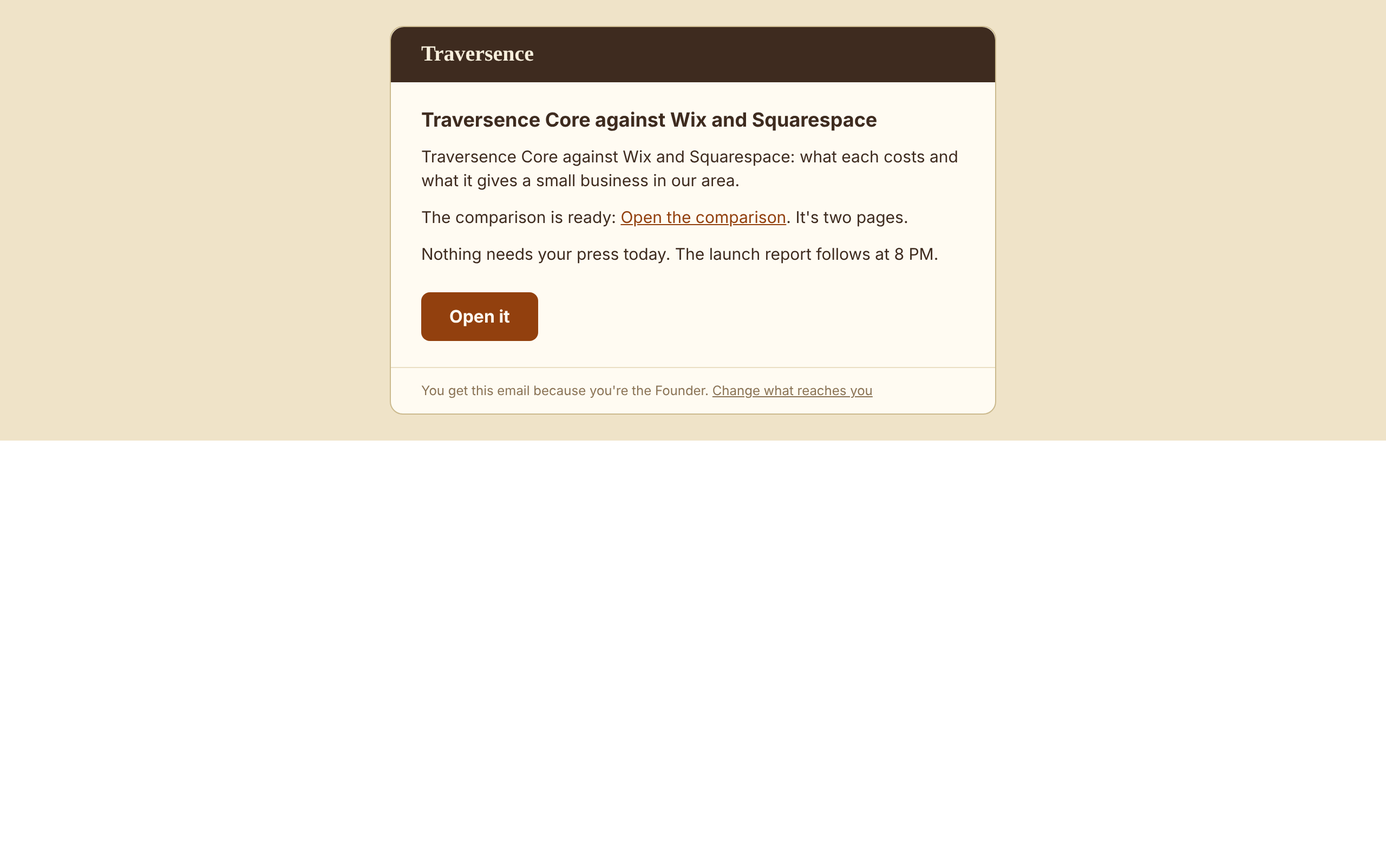
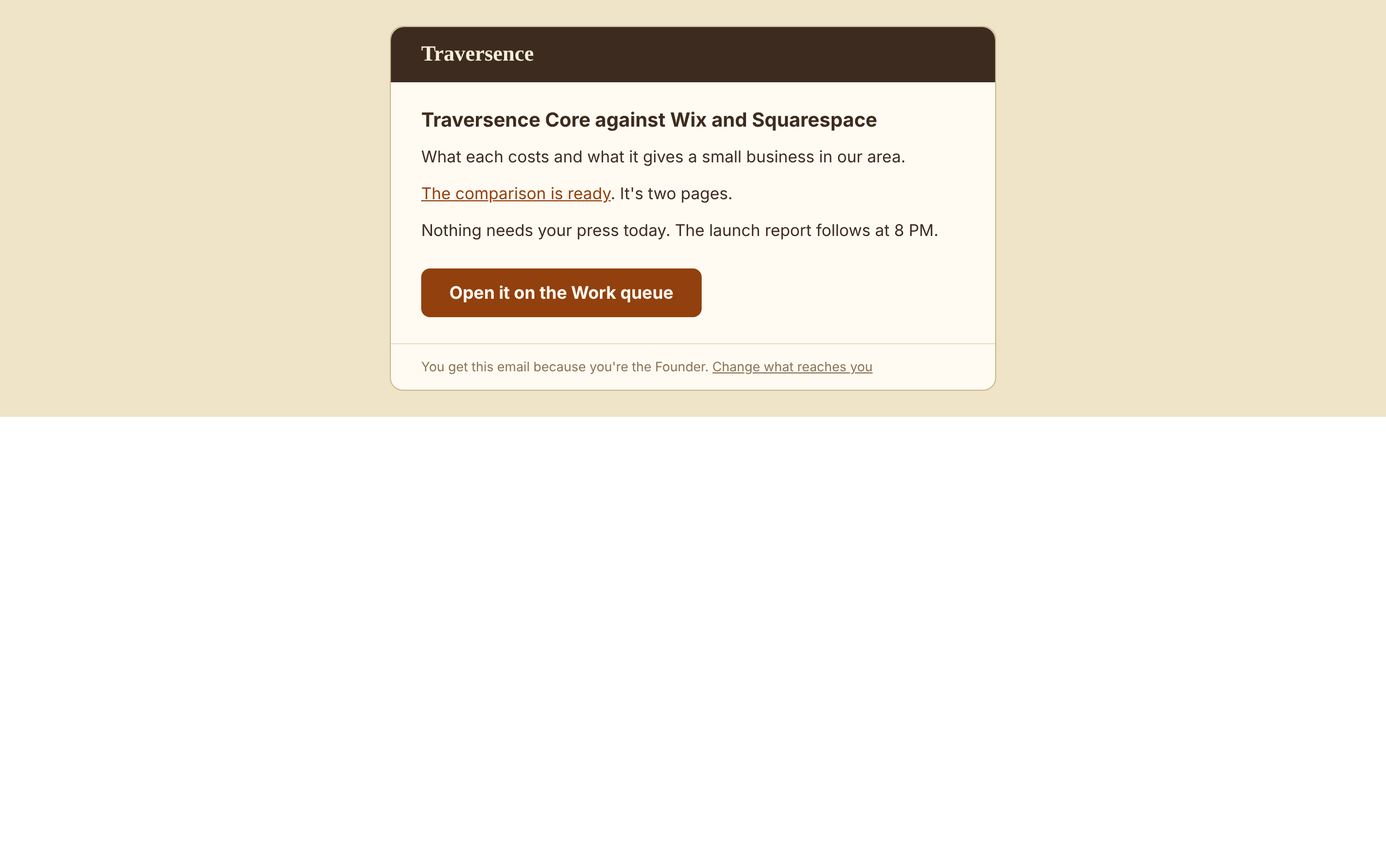
founder-link: the Design reviewer's five fixes (no title repeated, the phrase is the link, the button names its place, one footer)
Claude-Session: https://claude.ai/code/session_01CXLi5inRHU7bxiyPoYoi4v

Changed region(s): [[0.0, 0.1562, 1.0, 0.5312]]

diff --git a/handoffs/founder-link/screens/email.html b/handoffs/founder-link/screens/email.html
@@ -1,1 +1,1 @@
-<!doctype html><meta name=viewport content="width=device-width,initial-scale=1"><body style="margin:0"><table role="presentation" width="100%" cellpadding="0" cellspacing="0" bgcolor="#EFE3C8" style="background:#EFE3C8"><tr><td align="center" style="padding:24px 12px"><table role="presentation" width="100%" cellpadding="0" cellspacing="0" bgcolor="#FFFBF2" style="width:100%;max-width:560px;background:#FFFBF2;border:1px solid #CBB98D;border-radius:12px"><tr><td bgcolor="#3E2B1F" style="padding:14px 28px;border-radius:12px 12px 0 0;font-family:Georgia,serif;font-size:20px;font-weight:700;color:#F7EFDC">Traversence</td></tr><tr><td style="padding:24px 28px 10px;font-family:Segoe UI,Roboto,Helvetica,Arial,sans-serif;font-size:18px;font-weight:700;line-height:24px;color:#3E2B1F">Traversence Core against Wix and Squarespace</td></tr><tr><td style="padding:0 28px 6px"><p style="margin:0 0 12px;font-family:Segoe UI,Roboto,Helvetica,Arial,sans-serif;font-size:15px;line-height:22px;color:#3E2B1F">Traversence Core against Wix and Squarespace: what each costs and what it gives a small business in our area.</p><p style="margin:0 0 12px;font-family:Segoe UI,Roboto,Helvetica,Arial,sans-serif;font-size:15px;line-height:22px;color:#3E2B1F">The comparison is ready: <a href="https://github.com/degraffics/traversence/blob/main/research/compare/compare.pdf" style="color:#92400E;text-decoration:underline">Open the comparison</a>. It&#039;s two pages.</p><p style="margin:0 0 12px;font-family:Segoe UI,Roboto,Helvetica,Arial,sans-serif;font-size:15px;line-height:22px;color:#3E2B1F">Nothing needs your press today. The launch report follows at 8 PM.</p></td></tr><tr><td style="padding:6px 28px 24px"><table role="presentation" cellpadding="0" cellspacing="0"><tr><td bgcolor="#92400E" style="border-radius:8px;padding:12px 26px"><a href="https://traversence.com/admin/config/control?tab=development#wq-212" style="display:inline-block;font-family:Segoe UI,Roboto,Helvetica,Arial,sans-serif;font-size:16px;font-weight:700;color:#FFFBF2;text-decoration:none"><span style="color:#FFFBF2;text-decoration:none">Open it</span></a></td></tr></table></td></tr><tr><td style="padding:12px 28px;border-top:1px solid #EADFC4;font-family:Segoe UI,Roboto,Helvetica,Arial,sans-serif;font-size:12px;line-height:18px;color:#8A7355">You get this email because you're the Founder. <a href="https://traversence.com/admin/dashboard/comms" style="color:#8A7355;text-decoration:underline">Change what reaches you</a></td></tr></table></td></tr></table>
+<!doctype html><meta name=viewport content="width=device-width,initial-scale=1"><body style="margin:0"><table role="presentation" width="100%" cellpadding="0" cellspacing="0" bgcolor="#EFE3C8" style="background:#EFE3C8"><tr><td align="center" style="padding:24px 12px"><table role="presentation" width="100%" cellpadding="0" cellspacing="0" bgcolor="#FFFBF2" style="width:100%;max-width:560px;background:#FFFBF2;border:1px solid #CBB98D;border-radius:12px"><tr><td bgcolor="#3E2B1F" style="padding:14px 28px;border-radius:12px 12px 0 0;font-family:Georgia,serif;font-size:20px;font-weight:700;color:#F7EFDC">Traversence</td></tr><tr><td style="padding:24px 28px 10px;font-family:Segoe UI,Roboto,Helvetica,Arial,sans-serif;font-size:18px;font-weight:700;line-height:24px;color:#3E2B1F">Traversence Core against Wix and Squarespace</td></tr><tr><td style="padding:0 28px 6px"><p style="margin:0 0 12px;font-family:Segoe UI,Roboto,Helvetica,Arial,sans-serif;font-size:15px;line-height:22px;color:#3E2B1F">What each costs and what it gives a small business in our area.</p><p style="margin:0 0 12px;font-family:Segoe UI,Roboto,Helvetica,Arial,sans-serif;font-size:15px;line-height:22px;color:#3E2B1F"><a href="https://github.com/degraffics/traversence/blob/main/research/compare/compare.pdf" style="color:#92400E;text-decoration:underline">The comparison is ready</a>. It&#039;s two pages.</p><p style="margin:0 0 12px;font-family:Segoe UI,Roboto,Helvetica,Arial,sans-serif;font-size:15px;line-height:22px;color:#3E2B1F">Nothing needs your press today. The launch report follows at 8 PM.</p></td></tr><tr><td style="padding:6px 28px 24px"><table role="presentation" cellpadding="0" cellspacing="0"><tr><td bgcolor="#92400E" style="border-radius:8px;padding:12px 26px"><a href="https://traversence.com/admin/config/control?tab=development#wq-212" style="display:inline-block;font-family:Segoe UI,Roboto,Helvetica,Arial,sans-serif;font-size:16px;font-weight:700;color:#FFFBF2;text-decoration:none"><span style="color:#FFFBF2;text-decoration:none">Open it on the Work queue</span></a></td></tr></table></td></tr><tr><td style="padding:12px 28px;border-top:1px solid #EADFC4;font-family:Segoe UI,Roboto,Helvetica,Arial,sans-serif;font-size:12px;line-height:18px;color:#8A7355">You get this email because you&#039;re the Founder. <a href="https://traversence.com/admin/dashboard/comms" style="color:#8A7355;text-decoration:underline">Change what reaches you</a></td></tr></table></td></tr></table>

diff --git a/handoffs/founder-link/build/app/lib/FounderMail.php b/handoffs/founder-link/build/app/lib/FounderMail.php
@@ -118,8 +118,9 @@ final class FounderMail
             if (($x[1][1] ?? -1) >= 0) { $name = trim($x[1][0]); $url = $x[2][0]; }
             else { $all = rtrim($all, '.,;:!?'); $url = $all; $name = self::nameOf($url); }
             $before = $pos > $at ? substr($body, $at, $pos - $at) : '';
-            // a bare address after "Approve it on the Work queue: " takes that phrase as its name (the words already name it)
-            if (($x[1][1] ?? -1) < 0 && preg_match('/(^|[\n.!?]\s*)([^\n:.!?]{3,80}):\s*$/u', $before, $ph, PREG_OFFSET_CAPTURE) === 1) {
+            // a phrase before a link ("Approve it on the Work queue: …", "The comparison is ready: […](…)") is the link itself,
+            // so a line says one thing and calls once (the Design reviewer, 2026-11-27)
+            if (preg_match('/(^|[\n.!?]\s*)([^\n:.!?]{3,80}):\s*$/u', $before, $ph, PREG_OFFSET_CAPTURE) === 1) {
                 $name = trim($ph[2][0]); $before = substr($before, 0, $ph[2][1]);
             }
             if ($before !== '') $out[] = ['t', $before];
@@ -148,9 +149,31 @@ final class FounderMail
         return $t;
     }
 
-    /** A push's one plain sentence: links as their names, no address and no `code`, at most 140 characters. */
-    public static function pushLine(string $body): string
+    /** The body without a first line that only repeats the title ("<title>: what each costs…" → "What each costs…"). */
+    public static function untitled(string $body, string $title): string
     {
+        $title = trim($title); $b = ltrim($body);
+        if ($title === '' || mb_stripos($b, $title) !== 0) return $body;
+        // only a title that ends where the words pause (":", ".", a dash or the line's end), never one that starts a sentence
+        if (preg_match('/^\s*([:.\-]|\x{2014}|\n|$)/u', mb_substr($b, mb_strlen($title))) !== 1) return $body;
+        $rest = ltrim(mb_substr($b, mb_strlen($title)), " \t:.,;-");
+        if ($rest === '' || $rest[0] === "\n") return ltrim($rest);
+        return mb_strtoupper(mb_substr($rest, 0, 1)) . mb_substr($rest, 1);
+    }
+
+    /** Where Open it goes, by name: "Open it on the Work queue", "Open it on GitHub", … (the Design reviewer, 2026-11-27:
+     *  the button names its place). */
+    public static function openLabel(string $link): string
+    {
+        if (str_contains($link, '/admin/config/control?tab=development')) return 'Open it on the Work queue';
+        return self::nameOf(str_starts_with($link, '/') ? 'https://traversence.com' . $link : $link);
+    }
+
+    /** A push's one plain sentence: links as their names, no address and no `code`, at most 140 characters, and never the
+     *  title again. */
+    public static function pushLine(string $body, string $title = ''): string
+    {
+        $body = self::untitled($body, $title);
         $t = '';
         foreach (self::pieces($body) as $p) $t .= $p[1];   // a link is its name
         $t = (string) preg_replace('/`[^`\n]*`/u', '', $t);
@@ -176,10 +199,17 @@ final class FounderMail
         return $out;
     }
 
-    /** Notify's email for a founder.* kind: [text, html]. The text is Notify's own with the body's links named. */
-    public static function emailParts(string $title, string $body, string $link, string $text): array
+    /** Notify's email for a founder.* kind: [text, html]. Its title once, the body without it, Open it naming its place,
+     *  and the Founder's footer in both parts (the Design reviewer, 2026-11-27). */
+    public const FOOTER = 'You get this email because you\'re the Founder.';
+    public const CHOICES = 'https://traversence.com/admin/dashboard/comms';
+
+    public static function emailParts(string $title, string $body, string $link, string $text = ''): array
     {
-        if ($body !== '') $text = str_replace($body, self::textOf($body), $text);
+        $body = self::untitled($body, $title);
+        $open = self::openLabel($link);
+        $text = trim($title) . "\n\n" . (trim($body) !== '' ? trim(self::textOf($body)) . "\n\n" : '') . $open . ': ' . $link . "\n\n"
+              . "-- \n" . self::FOOTER . ' Change what reaches you: ' . self::CHOICES . "\nTraversence";
         $e = fn ($s) => htmlspecialchars((string) $s, ENT_QUOTES);
         $font = 'font-family:Segoe UI,Roboto,Helvetica,Arial,sans-serif;';
         $html = '<table role="presentation" width="100%" cellpadding="0" cellspacing="0" bgcolor="#EFE3C8" style="background:#EFE3C8"><tr><td align="center" style="padding:24px 12px">'
@@ -188,9 +218,9 @@ final class FounderMail
               . '<tr><td style="padding:24px 28px 10px;' . $font . 'font-size:18px;font-weight:700;line-height:24px;color:#3E2B1F">' . $e($title) . '</td></tr>'
               . '<tr><td style="padding:0 28px 6px">' . self::htmlOf($body, $font) . '</td></tr>'
               . '<tr><td style="padding:6px 28px 24px"><table role="presentation" cellpadding="0" cellspacing="0"><tr><td bgcolor="#92400E" style="border-radius:8px;padding:12px 26px">'
-              . '<a href="' . $e($link) . '" style="display:inline-block;' . $font . 'font-size:16px;font-weight:700;color:#FFFBF2;text-decoration:none"><span style="color:#FFFBF2;text-decoration:none">Open it</span></a></td></tr></table></td></tr>'
-              . '<tr><td style="padding:12px 28px;border-top:1px solid #EADFC4;' . $font . 'font-size:12px;line-height:18px;color:#8A7355">You get this email because you\'re the Founder. '
-              . '<a href="https://traversence.com/admin/dashboard/comms" style="color:#8A7355;text-decoration:underline">Change what reaches you</a></td></tr>'
+              . '<a href="' . $e($link) . '" style="display:inline-block;' . $font . 'font-size:16px;font-weight:700;color:#FFFBF2;text-decoration:none"><span style="color:#FFFBF2;text-decoration:none">' . $e($open) . '</span></a></td></tr></table></td></tr>'
+              . '<tr><td style="padding:12px 28px;border-top:1px solid #EADFC4;' . $font . 'font-size:12px;line-height:18px;color:#8A7355">' . $e(self::FOOTER) . ' '
+              . '<a href="' . self::CHOICES . '" style="color:#8A7355;text-decoration:underline">Change what reaches you</a></td></tr>'
               . '</table></td></tr></table>';
         return [$text, $html];
     }
@@ -200,11 +230,11 @@ final class FounderMail
     {
         $e = fn ($s) => htmlspecialchars((string) $s, ENT_QUOTES);
         $html = '';
-        foreach (preg_split('/\n{2,}/', trim((string) $m['body'])) as $para) if (trim($para) !== '') {
+        foreach (preg_split('/\n{2,}/', trim(self::untitled((string) $m['body'], (string) ($m['title'] ?? '')))) as $para) if (trim($para) !== '') {
             $h = ''; foreach (self::pieces($para) as $p) $h .= $p[0] === 't' ? (string) preg_replace('/`([^`\n]*)`/u', '<code>$1</code>', $e($p[1])) : ($p[2] !== '' ? '<a href="' . $e($p[2]) . '">' . $e($p[1]) . '</a>' : $e($p[1]));
             $html .= '<p>' . nl2br($h, false) . '</p>';
         }
-        if ((string) ($m['url'] ?? '') !== '') $html .= '<p class="tv-msg-acts"><a class="tv-btn" href="' . $e($m['url']) . '">Open it</a></p>';
+        if ((string) ($m['url'] ?? '') !== '') $html .= '<p class="tv-msg-acts"><a class="tv-btn" href="' . $e($m['url']) . '">' . $e(self::openLabel((string) $m['url'])) . '</a></p>';
         return ['html' => $html, 'state' => ''];
     }
 

diff --git a/tools/notify-founder-tests/founder.php b/tools/notify-founder-tests/founder.php
@@ -77,16 +77,20 @@ $t('our own hosts pass: traversence.com and staging.trvgo.us', FounderMail::link
 // the words, clean and on brand (Jason, 2026-11-27: "The push is clutter with code vs a clean on brand message")
 $wb = "The comparison is ready: [Open the comparison](https://github.com/degraffics/traversence/blob/main/research/x.pdf). Run `gauges.py --write` first.\n\nApprove it on the Work queue: https://traversence.com/admin/config/control?tab=development\nOr https://evil.example/x.";
 $pl = FounderMail::pushLine($wb);
-$t('a push: one plain sentence, its links by their names, no address and no code', $pl === 'The comparison is ready: Open the comparison.', $pl);
+$t('a push: one plain sentence, a phrase before a link is the link, no address and no code', $pl === 'The comparison is ready.', $pl);
+$t('… never the title again: the body after it, its first letter capital (Design, 2026-11-27)', FounderMail::pushLine("Traversence Core against Wix and Squarespace: what each costs.\n\nMore.", 'Traversence Core against Wix and Squarespace') === 'What each costs.' && FounderMail::pushLine('Other words.', 'Title') === 'Other words.' && FounderMail::pushLine('The comparison is ready. More.', 'The comparison') === 'The comparison is ready.');
 $pl2 = FounderMail::pushLine('See https://traversence.com/admin/x and `rm -rf` now, then ' . str_repeat('more words ', 30));
 $t('… an address and code in it: stripped; at most 140 characters', !preg_match('#https?://|`|rm -rf#', $pl2) && mb_strlen($pl2) <= 140, $pl2);
 [$tx, $hx] = FounderMail::emailParts('The comparison', $wb, 'https://traversence.com/admin/config/control?tab=development#wq-4', "The comparison\n\n" . $wb . "\n\nOpen it: https://traversence.com/admin/config/control?tab=development#wq-4\n\n-- \nfooter");
-$t('an email\'s bare link is named: "Approve it on the Work queue" as an anchor, never the address as its words', str_contains($hx, '>Approve it on the Work queue</a>') && !preg_match('#>https?://#', $hx) && str_contains($hx, '>Open the comparison</a>'), $hx);
-$t('… Open it is a named button to the message\'s place', str_contains($hx, 'href="https://traversence.com/admin/config/control?tab=development#wq-4"') && str_contains($hx, '>Open it</span></a>'));
+$t('an email\'s links are named: the phrase before each is the link ("The comparison is ready", "Approve it on the Work queue"), never an address as words', str_contains($hx, '>Approve it on the Work queue</a>') && str_contains($hx, '>The comparison is ready</a>. Run') && !str_contains($hx, 'Open the comparison') && !preg_match('#>https?://#', $hx), $hx);
+$t('… a bare address with no phrase: named by where it goes', FounderMail::nameOf('https://github.com/degraffics/x') === 'Open it on GitHub' && str_contains(FounderMail::htmlOf('See this. https://staging.trvgo.us/admin/x'), '>Open it on staging</a>'));
+$t('… its button names its place: "Open it on the Work queue"', str_contains($hx, 'href="https://traversence.com/admin/config/control?tab=development#wq-4"') && str_contains($hx, '>Open it on the Work queue</span></a>') && FounderMail::openLabel('https://github.com/degraffics/t/x.pdf') === 'Open it on GitHub' && FounderMail::openLabel('/admin/config/releases') === 'Open it on Traversence');
 $t('… a link not ours keeps only its name, never an anchor', !str_contains($hx, 'evil.example/x') && !str_contains($tx, 'evil.example/x') && str_contains($hx, 'evil.example'));
-$t('… the text part keeps each address after its name, for mail apps without HTML; code shown as code in HTML', str_contains($tx, 'Open the comparison: https://github.com/degraffics/') && str_contains($tx, 'Approve it on the Work queue: https://traversence.com/') && str_contains($hx, '<code>gauges.py --write</code>') && str_ends_with($tx, "footer"), $tx);
+$t('… the text part: each address after its phrase, one colon; Open it on the Work queue; the Founder\'s footer as in HTML; code as code in HTML', str_contains($tx, 'The comparison is ready: https://github.com/degraffics/') && !str_contains($tx, 'ready: Open') && str_contains($tx, 'Approve it on the Work queue: https://traversence.com/') && str_contains($tx, "Open it on the Work queue: https://traversence.com/admin/config/control?tab=development#wq-4") && str_contains($tx, "You get this email because you're the Founder. Change what reaches you: https://traversence.com/admin/dashboard/comms") && !str_contains($tx, 'your choices for') && str_contains($hx, "You get this email because you&#039;re the Founder.") && str_contains($hx, '<code>gauges.py --write</code>'), $tx);
+[$tx2, $hx2] = FounderMail::emailParts('Traversence Core', "Traversence Core: what each costs.\n\nMore.", '/x');
+$t('… the email\'s first paragraph never repeats its heading', str_contains($hx2, '>What each costs.</p>') && substr_count($hx2, 'Traversence Core') === 1 && str_contains($tx2, "Traversence Core\n\nWhat each costs."), $hx2);
 $pb = FounderMail::pulseBody($pdo, ['body' => $wb, 'url' => '/admin/config/control?tab=development#wq-4'], 1);
-$t('Pulse: the same named links, and Open it', str_contains($pb['html'], '>Open the comparison</a>') && str_contains($pb['html'], '>Approve it on the Work queue</a>') && str_contains($pb['html'], 'class="tv-btn" href="/admin/config/control?tab=development#wq-4">Open it</a>'), $pb);
+$t('Pulse: the same named links, and its button naming its place', str_contains($pb['html'], '>The comparison is ready</a>') && str_contains($pb['html'], '>Approve it on the Work queue</a>') && str_contains($pb['html'], 'class="tv-btn" href="/admin/config/control?tab=development#wq-4">Open it on the Work queue</a>'), $pb);
 $nv = (string) file_get_contents($src . '/lib/Notify.php');
 $t('the dispatcher hands only founder.* kinds to FounderMail: push line, email parts, Pulse body', substr_count($nv, "str_starts_with((string) \$m['kind'], 'founder.')") === 2 && str_contains($nv, "'founder.message' => ['FounderMail.php', 'FounderMail', 'pulseBody']"));
 // a Tier 3 decision

diff --git a/tools/notify-founder-tests/notify-diff.php b/tools/notify-founder-tests/notify-diff.php
@@ -11,7 +11,7 @@ if ($live === '' || $rel === '') { fwrite(STDERR, "usage: php notify-diff.php <l
 $pass = 0; $fail = 0;
 $t = function (string $n, bool $ok) use (&$pass, &$fail) { if ($ok) { $pass++; echo "  ok  $n\n"; } else { $fail++; echo "FAIL  $n\n"; } };
 $adds = [
-    "            // the Founder's push is its subject and one plain sentence, no address or code (Jason, 2026-11-27: \"The push is\n            // clutter with code vs a clean on brand message\"); FounderMail owns the founder.* kinds' words\n            if (str_starts_with((string) \$m['kind'], 'founder.')) { require_once __DIR__ . '/FounderMail.php'; \$pbody = FounderMail::pushLine((string) \$m['body']); }\n",
+    "            // the Founder's push is its subject and one plain sentence, no address or code (Jason, 2026-11-27: \"The push is\n            // clutter with code vs a clean on brand message\"); FounderMail owns the founder.* kinds' words\n            if (str_starts_with((string) \$m['kind'], 'founder.')) { require_once __DIR__ . '/FounderMail.php'; \$pbody = FounderMail::pushLine((string) \$m['body'], (string) \$m['title']); }\n",
     "        // the Founder's emails name their links (Jason, 2026-11-27; FounderMail): an HTML part with each link as its name and\n        // Open it as a button; the text part keeps each address after its name, for mail apps without HTML\n        \$html = '';\n        if (str_starts_with((string) \$m['kind'], 'founder.')) { require_once __DIR__ . '/FounderMail.php'; [\$text, \$html] = FounderMail::emailParts((string) \$m['title'], (string) \$m['body'], \$link, \$text); }\n",
     "        // the Founder's messages with their links named in Pulse too (Jason, 2026-11-27; FounderMail)\n        'founder.batch' => ['FounderMail.php', 'FounderMail', 'pulseBody'],\n        'founder.decision' => ['FounderMail.php', 'FounderMail', 'pulseBody'],\n        'founder.message' => ['FounderMail.php', 'FounderMail', 'pulseBody'],\n",
 ];

diff --git a/handoffs/founder-link/build/app/lib/Notify.php b/handoffs/founder-link/build/app/lib/Notify.php
@@ -393,7 +393,7 @@ final class Notify
             $pbody = in_array((string) $m['kind'], self::IN_PLACE, true) ? (string) strtok((string) $m['body'], "\n") : (string) $m['body'];
             // the Founder's push is its subject and one plain sentence, no address or code (Jason, 2026-11-27: "The push is
             // clutter with code vs a clean on brand message"); FounderMail owns the founder.* kinds' words
-            if (str_starts_with((string) $m['kind'], 'founder.')) { require_once __DIR__ . '/FounderMail.php'; $pbody = FounderMail::pushLine((string) $m['body']); }
+            if (str_starts_with((string) $m['kind'], 'founder.')) { require_once __DIR__ . '/FounderMail.php'; $pbody = FounderMail::pushLine((string) $m['body'], (string) $m['title']); }
             // an alarm's push: "SYSTEM ALARM: <item>", its body starting with the action (decisions/0176's note, 2026-11-20:
             // "Push shortened"; a phone cuts a title at about 40 characters)
             // its action may hold a colon ("Down: the system is still trying", the one engine's §5.4), so it's matched by name

diff --git a/README.md b/README.md
@@ -69,7 +69,7 @@ The site's code isn't here. It runs on the server and in OneDrive, and its live 
 | `tools/search-tests/` | Search's tests (the launch plan's C.1): `device-place.php` (the place from Auto-detect, or a town or ZIP set with no area named, inside one of our areas is that area's town; outside stays outside; 7 checks on MariaDB) |
 | `tools/path-checker-tests/` | The path checker's own test (the launch plan's C.2): `staff-in.mjs` with a stand-in sign-in page in `fake/` (check-kit.mjs's staff sign-in never reuses a two-step step, and retries once on the next step; 4 checks); `buy-runners.mjs` (the buying paths' runners on the design harness in QuickBooks mock: plan-buy, then shop-buy, and the guard that refuses anywhere but staging) |
 | `tools/release-tests/` | The release pipeline's record in git: `record.php` (a release record refused as stale is read and written again; one that won't save is said on its card and saved by the 10-minute job; Release #301's missing Live, 2026-11-26; 15 checks, a fake GitHub) |
-| `tools/notify-founder-tests/` | notify-founder's test: `founder.php` (the site emails the Founder itself: today's batch, a Tier 3 decision and the session manager's messages, each once, to the Founder alone, never from staging; each message's Open it by its own link or Work queue ticket; its push one plain sentence and its email's links named; 32 checks on MariaDB) and `notify-diff.php` (the dispatcher less the founder.* additions is live's byte for byte; 7 checks) |
+| `tools/notify-founder-tests/` | notify-founder's test: `founder.php` (the site emails the Founder itself: today's batch, a Tier 3 decision and the session manager's messages, each once, to the Founder alone, never from staging; each message's Open it by its own link or Work queue ticket; its push one plain sentence and its email's links named; 35 checks on MariaDB) and `notify-diff.php` (the dispatcher less the founder.* additions is live's byte for byte; 7 checks) |
 | `tools/config-rail-tests/` | config-rail's test (Jason, 2026-11-25: System Configuration's pages in the side menu): `config-rail.cjs` with `router.php` (the real shell and menu at 1280 and 390: order, current page, greyed with why, 20 checks) |
 | `tools/piece3-tests/` | Piece 3's tests (decisions/0179 rule 2; `handoffs/piece3-check.md`; its README): `beforeafter.test.mjs` with `fixture-router.php` (the before-and-after check's four rules on a fixture site, 19 checks), `reach_test.py` (the pages a file reaches, 9 checks), `pipeline.php` (P3-2: the site's side on MariaDB, 22 checks), `held.php` (P3-5: the held names' locked read, 14 checks), `fence_test.py` (P3-6: reach.py's fence and send.py's refusal, 17 checks), `onstates.php` (the check on in every switch state but off, killed off; 7 checks), `closed.php` (a release never asks for its before look of a closed staging: it waits, says so, asks once staging opens; 10 checks) and `compare-closed.test.mjs` (a before look from a closed staging is incomplete, never a block; the four rules unchanged; 10 checks), `plan-sample.test.mjs` (a look's views: the extra member advocates sample, every page under every rule, the busiest release inside 20 minutes a phase; 14 checks), `tickwait.php` (the 10-minute job leaves a release waiting for its before look off staging; no wrong note when its look comes in; 6 checks) and `signin.test.mjs` (an account that alone checks a kind of page failing to sign in makes the look incomplete; 9 checks), `fold-real.test.mjs` (tabs folded under More by the live `js/tv-ask.js` read as the same controls; 7 checks); `beforeafter.test.mjs`'s alarm cases (the system's state lines, an alarm's thread, the dashboard's status rows, status lines and notices, are drift only for a release that touches what draws them, 2026-11-26) and its record cases (a list's, table's or card's values are data, never drift; a column or control added still is, 2026-11-26) |
 | `tools/staging-tests/` | decisions/0165's tests: `unit.php` (the merge rules, the register of record numbers, the table classes, the gate's scan) and `db.php` (catch-up, renumbering, preview, publish, backward undo and roll back on a real MySQL or MariaDB); `conn-gone.php` (a kept connection the server closed is made again; the stopped copy of 2026-11-26), `mirror-on.php` and `mirror-words.cjs` with `page-router.php` and `mirror-seed.php` (Keep staging caught up says off, turning on, on or didn't turn on; it switches on at the copy's last step; nothing previewed or published from half a copy; at 1280 and 390), `redraw.cjs` (the Staging page's status lines keep their boxes after a press and its redraw; 6 checks at 1280 and 390) |
